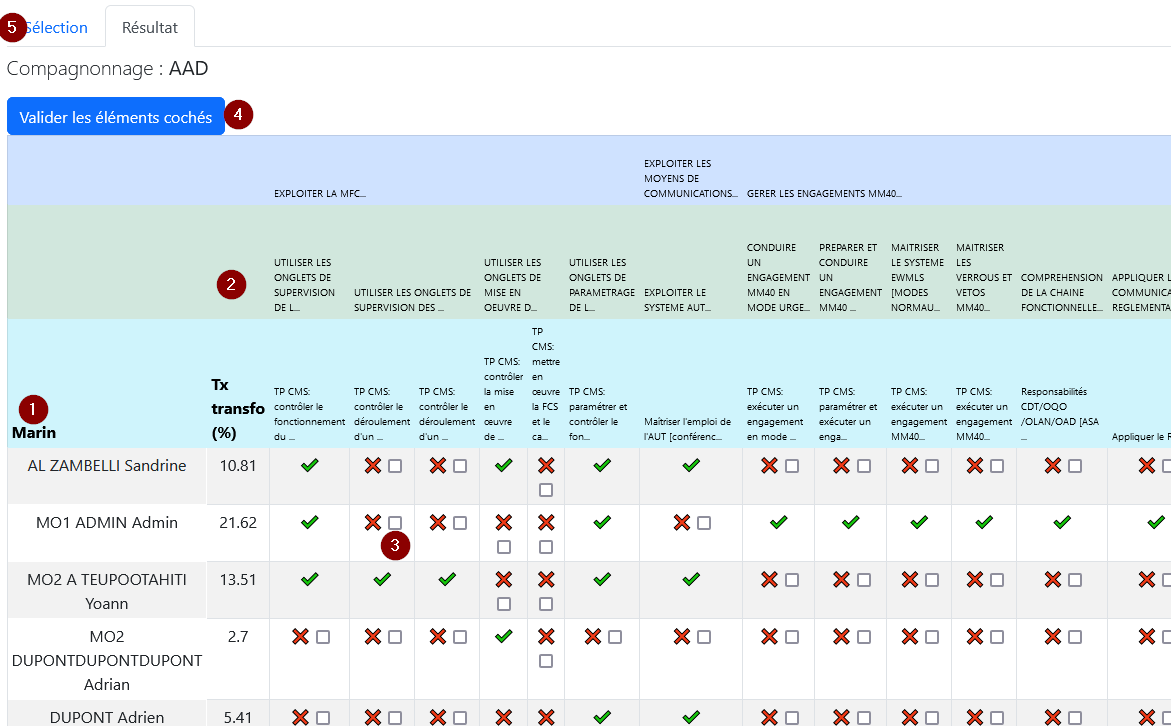
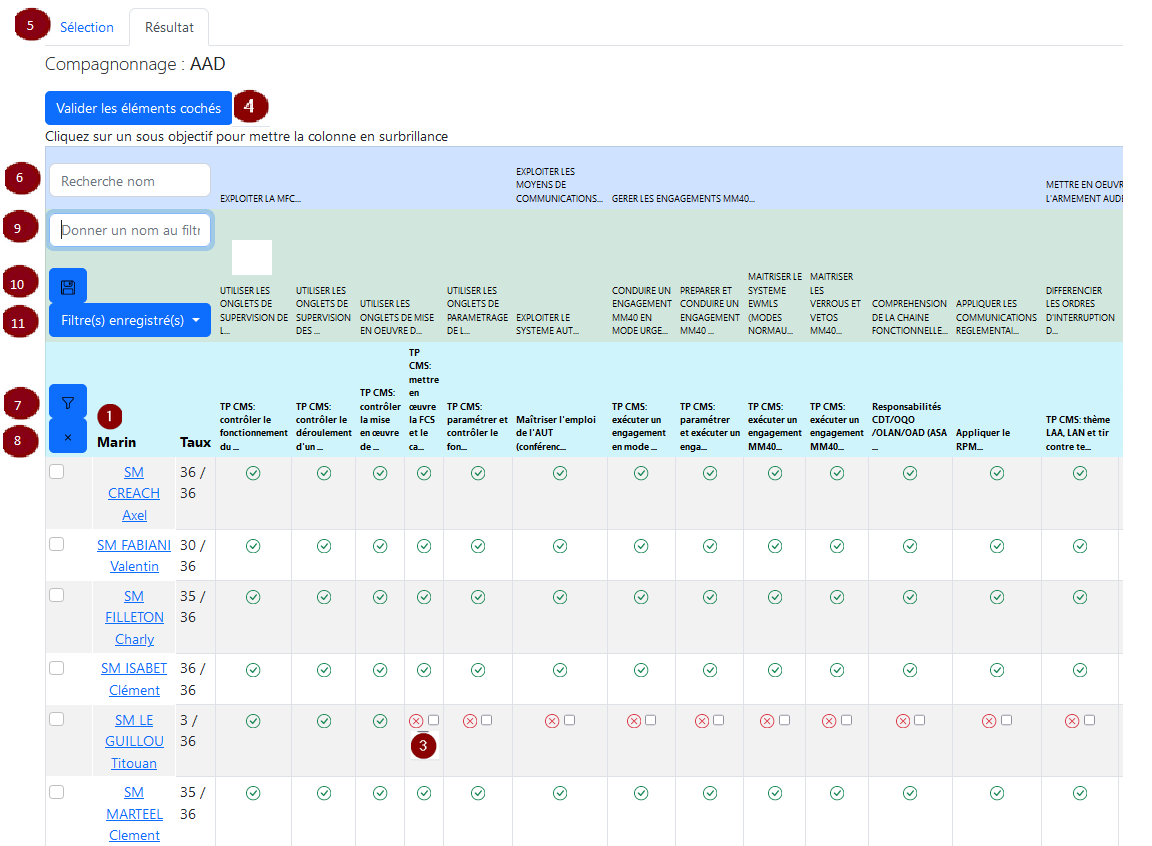
doc

diff --git a/Modules/Transformation/Resources/views/livewire/etat-comp-users.blade.php b/Modules/Transformation/Resources/views/livewire/etat-comp-users.blade.php
@@ -7,6 +7,7 @@
         selectedMarins: [],
         nomDuFiltre: '',
         erreur: '',
+        success: '',
         filter(){
             $wire.showMarinFiltrer(this.selectedMarins);
         },
@@ -19,6 +20,7 @@
             }
             else{
                 this.erreur = '';
+                this.success = 'Filtre enregistré';
                 $wire.creerUnFiltre(this.selectedMarins, this.nomDuFiltre);
             }
         },
@@ -69,6 +71,7 @@
                 <td colspan="3">
                     <input type="text" class="form-control me-2" placeholder="Donner un nom au filtre" aria-label="nom du filtre" x-model="nomDuFiltre">
                     <span x-text ="erreur" class="text-danger"></span>
+                    <span x-text ="success" class="text-success"></span>
                     <br>
                     <button  class="btn btn-primary sticky-top" title="enregistrer le filtre"  x-on:click="creerUnFiltre">
                         <img src="{!! asset("assets/images/floppy.svg") !!}" alt="">

diff --git a/resources/docs/1.0/transformation.md b/resources/docs/1.0/transformation.md
@@ -134,8 +134,7 @@ Cette page permet de consulter la situation de tous les marins pour un compagnon
 En cliquant sur le bouton « Situation des marins » (1), vous ouvrez automatiquement l'onglet "Résultat" (2). 
 
 <img src="{{ url(asset('docs/images/' . env('DOC_VERSION') . '/transformation/tableau_recap_user_comp.png' )) }}">
-Vous y retrouvez un tableau récapitulant tous les marins (1), la liste des tache/objectifs/sous-objectifs (2), et l'état de validation pour chaque sous-objectifs (3) du compagnonnage. Vous pouvez valider la réalisation des sous objectifs en sélectionnant les cases à cocher correspondantes puis en cliquant sur " Valider les éléments cochés " (4). Un Pop-up vous permettant de saisir la date de validation, le valideur et un commantaire apparaitra.
-Pour changer de compagnonnage, revenez sur l'onglet "Sélection" (5).
+Vous y retrouverez un tableau récapitulant tous les marins (1), la liste des tâches/objectifs/sous-objectifs (2), et l'état de validation pour chaque sous-objectif (3) du compagnonnage. Vous pouvez valider la réalisation des sous-objectifs en sélectionnant les cases à cocher correspondantes puis en cliquant sur 'Valider les éléments cochés' (4). Un pop-up vous permettant de saisir la date de validation, le valideur et un commentaire apparaîtra. Pour changer de compagnonnage, revenez sur l'onglet 'Sélection' (5). Vous pouvez chercher par nom ou prénom la personne que vous voulez dans le tableau (6). (7) L'entonnoir permet de filtrer les marins que vous avez sélectionnés avec les cases à cocher à la gauche de leur nom. (8) Cette croix permet de réinitialiser le tableau et d'enlever le filtre appliqué. Vous pouvez créer des filtres, pour cela il faut sélectionner les marins que vous souhaitez ajouter au filtre. Donnez un nom à celui-ci (9), puis appuyez sur le bouton enregistrer (10). Vous retrouverez ces filtres dans la liste déroulante (11) et il suffira d'appuyer dessus pour appliquer le filtre. 
 
 <a name="suivi-par-stage">
 ## Suivi de la transformation par stage
